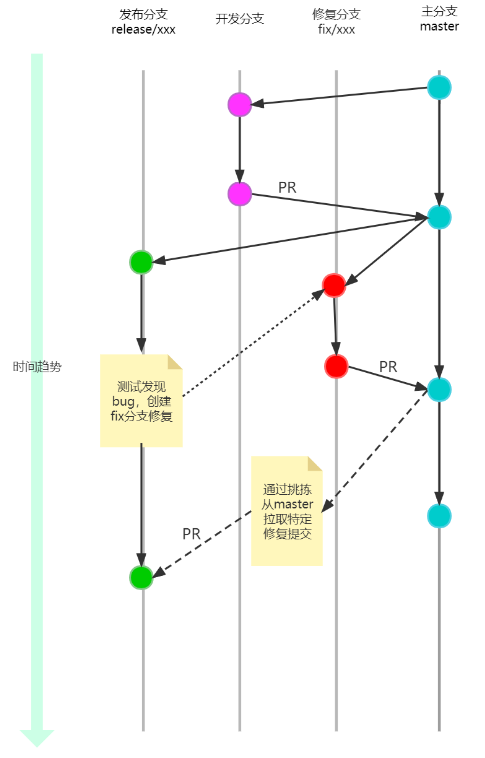
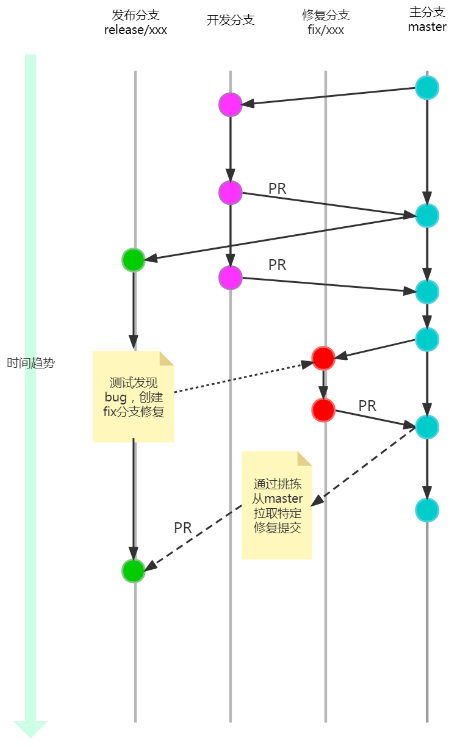
deploy: weihong-phoenix/docfx_build@f411bede3fb02ace73049f9d2e649ab825db633f

diff --git a/doc/研发管理制度规范/GIT分支工作流规范.html b/doc/研发管理制度规范/GIT分支工作流规范.html
@@ -79,7 +79,7 @@
             <article class="content wrap" id="_content" data-uid="">
 <h1 id="git分支工作流规范">GIT分支工作流规范</h1>
 
-<pre><code>版次：2023年1月30日　第1.3版
+<pre><code>版次：2023年1月31日　第1.4版
 类型：程序文件
 作者：软件部
 上海维宏电子科技股份有限公司 版权所有
@@ -109,10 +109,11 @@
 <h2 id="4-术语和定义">4 术语和定义</h2>
 <p>为了确保对术语的一致性理解，此处定义本文档用到的术语：</p>
 <ul>
-<li>MSF： Microsoft Solution Framework 的缩写，是微软产品研发的方法论，2022 年起公司借鉴其方法论开展研发管理工作。</li>
-<li>GIT仓库：GIT是分布式版本控制系统。研发过程中的文档、代码、测试用例等文件存放在GIT版本控制的仓库中。</li>
-<li>开发分支：包含feature、doc、style、refactor、test、build，chore。</li>
-<li>PR：拉取请求功能，代码经过评审后合并到目标分支。</li>
+<li><strong>MSF</strong>： Microsoft Solution Framework 的缩写，是微软产品研发的方法论，2022 年起公司借鉴其方法论开展研发管理工作。</li>
+<li><strong>GIT仓库</strong>：GIT是分布式版本控制系统。研发过程中的文档、代码、测试用例等文件存放在GIT版本控制的仓库中。</li>
+<li><strong>开发分支</strong>：包含feature、doc、style、refactor、test、build，chore。</li>
+<li><strong>PR</strong>：拉取请求功能，代码经过评审后合并到目标分支。</li>
+<li><strong>软件发布</strong>：软件发布前为创建release分支提供给测试人员测试，软件未发布提供给客户，软件发布后为软件经过测试人员测试，软件已经发布提供给客户</li>
 </ul>
 <h2 id="5-git工作流程图">5 GIT工作流程图</h2>
 <p><img src="images/git-workflow-a.png" alt=""></p>
@@ -146,10 +147,6 @@
 <h3 id="62-发布分支">6.2 发布分支</h3>
 <p><img src="images/git-workflow-d.png" alt=""></p>
 <p>一旦 <code>master</code> 分支上做一次发布，就从 <code>master</code>分支上拉出一个 <code>release</code> 分支。新建的分支用于开始发布循环，发布分支仅用于发布，不会提交任何代码修改（版本号，历史记录等，视为分支的配置而不是代码内容，可以在发布分支上提交），严禁出现 <code>master</code> 与 <code>release</code> 分支之间的合并。</p>
-<p>测试只需要对 <code>release</code> 分支进行验证，当测试版本出现bug，或者必须有添加的功能时。应重新从 <code>master</code> 分支上拉取开发分支进行开发，开发完成后经过PR合并到 <code>master</code> 分支，然后再从 <code>master</code> 分支挑拣 <code>cherry-pick</code> 到 <code>release</code> 分支上。</p>
-<p>*注：挑拣(cherry-pick) 与 合并(merge) 并不是一个功能，<code>git</code> 提供了特定针对修改集的 <code>cherry-pick</code> 能力，详细请参考 <code>git</code> 或者 <code>vs</code> 手册。</p>
-<p>如：</p>
-<p><img src="images/git-workflow-e.png" alt=""></p>
 <p>使用一个用于发布准备的专门分支，使得一个团队可以在完善当前的发布版本的同时，另一个团队可以继续开发下个版本的功能。</p>
 <p>分支约定：</p>
 <ul>
@@ -157,8 +154,13 @@
 <li>分支的命名必须为<code>release/*</code>，<code>*</code> 代表版本号，如为了区分不同产品的版本发布，命名可为<code>release/产品名称-*</code></li>
 <li>所有正式发布的版本，必须有相应的 <code>release</code> 分支对应。</li>
 </ul>
-<h3 id="63-软件发布后-fix-版本">6.3 软件发布后 fix 版本</h3>
-<p>当某个已发布的版本发现问题，由于新版本不兼容，或者变更太大无法升级时，需要在原发布分支的基础上进行修正，如问题在master分支上同样存在需要修复，应使用fix分支修复后PR到master分支。</p>
+<h3 id="63-软件发布前-fix-版本">6.3 软件发布前 fix 版本</h3>
+<p>测试对 <code>release</code> 分支进行验证，当测试版本出现bug，或者必须有添加的功能时。应重新从 <code>master</code> 分支上拉取开发分支进行开发，开发完成后经过PR合并到 <code>master</code> 分支，然后再从 <code>master</code> 分支挑拣 <code>cherry-pick</code> 到 <code>release</code> 分支上。</p>
+<p>*注：挑拣(cherry-pick) 与 合并(merge) 并不是一个功能，<code>git</code> 提供了特定针对修改集的 <code>cherry-pick</code> 能力，详细请参考 <code>git</code> 或者 <code>vs</code> 手册。</p>
+<p>如：</p>
+<p><img src="images/git-workflow-e.png" alt=""></p>
+<h3 id="64-软件发布后-fix-版本">6.4 软件发布后 fix 版本</h3>
+<p>当某个已发布的版本发现问题，由于新版本不兼容，或者变更太大无法升级时，需要在原发布分支的基础上进行修正，如问题在master分支上同样存在需要修复，应使用fix分支修复后再PR到master分支。</p>
 <p><img src="images/git-workflow-f.png" alt=""></p>
 <p>分支约定：</p>
 <ul>
@@ -166,10 +168,10 @@
 <li>分支的命名必须为<code>release/修复概述-fix-*</code>，<code>*</code> 代表修复版本号。</li>
 <li>所有正式发布的fix版本，必须有相应的 <code>release</code> fix分支对应。</li>
 </ul>
-<h3 id="64-历史分支">6.4 历史分支</h3>
+<h3 id="65-历史分支">6.5 历史分支</h3>
 <p>历史分支通过多个 <code>release</code> 分支，记录项目的历史。</p>
 <p><img src="images/git-workflow-d.png" alt=""></p>
-<h3 id="65-拉取请求pr">6.5 拉取请求PR</h3>
+<h3 id="66-拉取请求pr">6.6 拉取请求PR</h3>
 <p>为了保证master分支的稳定性，其他分支合并到master的内容不能直接合并操作，必须通过PR评审通过后再进行合并。</p>
 <p><strong>PR必须开启如下限制</strong></p>
 <ul>
@@ -189,9 +191,10 @@
 </ul>
 <h2 id="7-示例">7 示例</h2>
 <p>下面的示例演示本工作流如何用于管理单个发布循环。假设你已经创建了一个主分支项目。</p>
+<p><strong>开发人员</strong>：Mary、Bill</p>
 <h3 id="71-准备主分支">7.1 准备主分支</h3>
-<p>由仓库管理员初始化 <code>master</code> 分支，以后这个分支将会包含了项目的全部历史提交。</p>
-<h3 id="72-大家开发新功能">7.2 大家开发新功能</h3>
+<p>由仓库管理员初始化 <code>master</code> 分支，此分支将会包含整个项目的全部历史提交。</p>
+<h3 id="72-marybill分别开发新功能">7.2 Mary、Bill分别开发新功能</h3>
 <p><img src="images/git-workflow-b.png" alt=""></p>
 <h3 id="73-mary开始准备发布">7.3 Mary开始准备发布</h3>
 <p><img src="images/git-workflow-d.png" alt=""></p>
